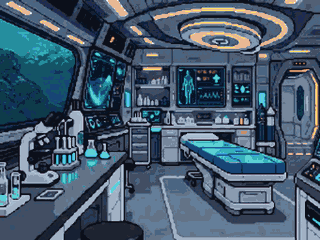
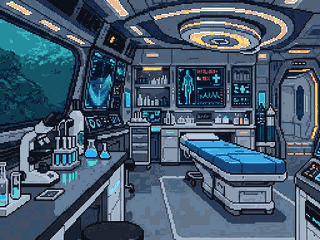
Walkways and medbay back to the colour-matched pictures (the filter rebuild looked smudged); Retro despeckle and the A1 BRIDGE sign stay
Claude-Session: https://claude.ai/code/session_01QsU1qWh9Lm4CoQ2smq7FHb

diff --git a/tablet/js/art.js b/tablet/js/art.js
@@ -8,8 +8,7 @@ export const ART = {
   // bridge: the owner's 1448x1086 picture, cut to the art (1448x992) with real transparent holes; bridge.png is the 320x240 pixel frame
   bridge: { original: { src: 'retro/assets/bridge_original.png', smooth: true }, retro: { src: 'retro/assets/bridge.png', smooth: false } },
   // each room: the owner's original (smooth) and the 320x240 palette copy made by tools/snap_picture.py
-  // walkway, walkway2 and medbay were soft paintings: tools/even_palette.py rebuilds them as pixel art at Engineering's pixel size (PNG)
-  ...Object.fromEntries(['walkway', 'walkway2', 'quarters', 'science', 'launchbay', 'medbay', 'engineering'].map((n) => [n, { original: { src: `retro/assets/${n}_original.${['walkway', 'walkway2', 'medbay'].includes(n) ? 'png' : 'jpg'}`, smooth: true }, retro: { src: `retro/assets/${n}.png`, smooth: false } }])),
+  ...Object.fromEntries(['walkway', 'walkway2', 'quarters', 'science', 'launchbay', 'medbay', 'engineering'].map((n) => [n, { original: { src: `retro/assets/${n}_original.jpg`, smooth: true }, retro: { src: `retro/assets/${n}.png`, smooth: false } }])),
 };
 
 export const getQuality = () => { try { return localStorage.getItem(KEY) === 'retro' ? 'retro' : 'original'; } catch (e) { return 'original'; } };

diff --git a/sw.js b/sw.js
@@ -2,7 +2,7 @@
    falls back to the saved copy when offline or slow. Covers the iPad game (tablet/) and the
    iPhone PED (ped/). Only same-origin GET requests are handled: GitHub sync calls go straight to
    the network. Run `python3 tools/update_sw.py` after adding or renaming files. */
-const VERSION = 'f1dbbe06bf';
+const VERSION = 'ea79a6aa4e';
 const CACHE = 'aquanova-' + VERSION;
 const ASSETS = [
  "tablet/",
@@ -275,15 +275,15 @@ const ASSETS = [
  "tablet/retro/assets/launchbay.png",
  "tablet/retro/assets/launchbay_original.jpg",
  "tablet/retro/assets/medbay.png",
- "tablet/retro/assets/medbay_original.png",
+ "tablet/retro/assets/medbay_original.jpg",
  "tablet/retro/assets/quarters.png",
  "tablet/retro/assets/quarters_original.jpg",
  "tablet/retro/assets/science.png",
  "tablet/retro/assets/science_original.jpg",
  "tablet/retro/assets/walkway.png",
  "tablet/retro/assets/walkway2.png",
- "tablet/retro/assets/walkway2_original.png",
- "tablet/retro/assets/walkway_original.png",
+ "tablet/retro/assets/walkway2_original.jpg",
+ "tablet/retro/assets/walkway_original.jpg",
  "tablet/retro/bridge.css",
  "tablet/retro/bridge.js",
  "tablet/retro/demo.html",

diff --git a/tools/even_palette.py b/tools/even_palette.py
@@ -16,7 +16,7 @@ ROOMS = ['bridge', 'walkway', 'walkway2', 'quarters', 'science', 'launchbay', 'm
 STRENGTH = 0.85   # 1 = match Engineering exactly; a little less keeps a trace of each room's own mood
 # Rooms whose source is soft and noisy (painted, not pixel art) are rebuilt as pixel art at Engineering's pixel size (2026-11-27):
 # denoise, shrink to the native grid, a limited palette, stray pixels removed, then blown back up in hard pixels. Saved as PNG.
-REPIXEL = ['walkway', 'walkway2', 'medbay']
+REPIXEL = []   # (tried 2026-11-27: the owner found it smudged; reverted)
 NATIVE = (341, 256)   # Engineering's art pixel: 1024 / 3 across
 PIX_COLOURS = 96
 

diff --git a/docs/HANDOFF.md b/docs/HANDOFF.md
@@ -1,6 +1,6 @@
 # Handoff (read this first when a session starts; update it before parking)
 
-Last updated: 2026-11-26. Branch to work on: `tablet`. Repo: NickWest27/AquaNova (GitHub Pages path `/AquaNova/`). Last change: walkway A1, walkway AN-1 and medbay rebuilt as pixel art at Engineering's pixel size (PNG, `tools/even_palette.py` REPIXEL), stray speckles removed from all Retro copies, BRIDGE sign on A1 drawn by the game; before that rooms open with the story and crew join the communicator when their room is visited (`rooms.js`, see `docs/COMMS_AND_PROGRESSION.md`); ARIA's bridge introduction; before that crew renamed (Lt. Andre Washington for security, Chief Engineer Ryan Doyle; see `docs/STORY_BIBLE.md`); the Captain's lines in the communicator are conversational (`SAY` in `stations/crew.js`); Call another station; Take me to my quarters removed; before that communicator menu tidied and First Contact completes on ARIA's introduction (see `docs/HELM_AND_ORDERS.md`); before that portraits and dialogue screens for Marcus, ARIA and Dr. Patel (`tools/crew_art.py`, sources in `art_src/crew/`; text box side per picture: `SCENE_BOX` in art.js); before that room pictures evened out to the Engineering picture's brightness and colour (`tools/even_palette.py`; the untouched originals are in `art_src/rooms/`, outside the served folders: a new room picture goes there first, then run the script, which also remakes the Retro copies); bigger crew tap areas on the bridge; before that the owner's testing list (below, all 18 items); before that the quarters wall screen cycles NAV, synthetic vision, sonar, WSKRs and ship status (`quartersScreen.js`, tap = next page, 10 s each; test `tools/quarters_screen_test.py`); pushing the trials for records with a risk of light damage (`trials.js`); story bible brought up to date; before that Sea Trials became the commissioning trip to the Trials AO (welcome letter in the logbook, commissioning orders by mail, Welcome to the AO mail; nav, eng and super cruise commissioned in steps; see the tutorial table in `docs/COMMS_AND_PROGRESSION.md`); before that the owner's welcome letter in the logbook; before that general alarm (ARIA order + engineering button; red lighting and frames; faster fire/flood response if sounded first; see `docs/ENGINEERING.md`); before that the Engineering room shows the ship's state (core glow amber/red, live console screens, red alarm for fire/flooding; see `docs/ENGINEERING.md`); before that the engineering computer; before that the 90s dialogue screen for Nicole; before that Nicole's portrait; before that walkway AN-1 and Engineering on the owner's pictures (every room is now 4:3); before that site survey (`survey.js`, Survey site on SONAR, Seabed survey missions) and the XO tends Remora before getting under way; before that Remora's tether parts past its length, the Tern fetches her (`tools/tether_test.py`); before that PED, communicator and corner buttons in the 4:3 box; before that Launch Bay as instruments, WSKRs have their own launch bays, standard target readout (`readout.js`), Full sweep 36 s; before that station pages are a 4:3 page (1024 x 768) scaled like the stage; before that pages fit the screen (`tools/fit_test.py`) and Sensors has SONAR and WSKRs only; before that contact tracking (detection chance, names belong to tracks, probable matches, signatures on file: `docs/CONTACT_TRACKING.md`); before that identified ships saved; before that one zoom direction everywhere ("+" zooms in) and round map zoom buttons; before that the bridge original picture with real transparent holes; before that the medbay on the owner's picture (after bridge, walkway A1, quarters, science lab, launch bay).
+Last updated: 2026-11-26. Branch to work on: `tablet`. Repo: NickWest27/AquaNova (GitHub Pages path `/AquaNova/`). Last change: walkway A1, walkway AN-1 and medbay back to the colour-matched pictures (a pixel-art rebuild by filter looked smudged; they need redrawing to be as crisp as the launch bay); stray speckles removed from the Retro copies; BRIDGE sign on A1 drawn by the game; before that rooms open with the story and crew join the communicator when their room is visited (`rooms.js`, see `docs/COMMS_AND_PROGRESSION.md`); ARIA's bridge introduction; before that crew renamed (Lt. Andre Washington for security, Chief Engineer Ryan Doyle; see `docs/STORY_BIBLE.md`); the Captain's lines in the communicator are conversational (`SAY` in `stations/crew.js`); Call another station; Take me to my quarters removed; before that communicator menu tidied and First Contact completes on ARIA's introduction (see `docs/HELM_AND_ORDERS.md`); before that portraits and dialogue screens for Marcus, ARIA and Dr. Patel (`tools/crew_art.py`, sources in `art_src/crew/`; text box side per picture: `SCENE_BOX` in art.js); before that room pictures evened out to the Engineering picture's brightness and colour (`tools/even_palette.py`; the untouched originals are in `art_src/rooms/`, outside the served folders: a new room picture goes there first, then run the script, which also remakes the Retro copies); bigger crew tap areas on the bridge; before that the owner's testing list (below, all 18 items); before that the quarters wall screen cycles NAV, synthetic vision, sonar, WSKRs and ship status (`quartersScreen.js`, tap = next page, 10 s each; test `tools/quarters_screen_test.py`); pushing the trials for records with a risk of light damage (`trials.js`); story bible brought up to date; before that Sea Trials became the commissioning trip to the Trials AO (welcome letter in the logbook, commissioning orders by mail, Welcome to the AO mail; nav, eng and super cruise commissioned in steps; see the tutorial table in `docs/COMMS_AND_PROGRESSION.md`); before that the owner's welcome letter in the logbook; before that general alarm (ARIA order + engineering button; red lighting and frames; faster fire/flood response if sounded first; see `docs/ENGINEERING.md`); before that the Engineering room shows the ship's state (core glow amber/red, live console screens, red alarm for fire/flooding; see `docs/ENGINEERING.md`); before that the engineering computer; before that the 90s dialogue screen for Nicole; before that Nicole's portrait; before that walkway AN-1 and Engineering on the owner's pictures (every room is now 4:3); before that site survey (`survey.js`, Survey site on SONAR, Seabed survey missions) and the XO tends Remora before getting under way; before that Remora's tether parts past its length, the Tern fetches her (`tools/tether_test.py`); before that PED, communicator and corner buttons in the 4:3 box; before that Launch Bay as instruments, WSKRs have their own launch bays, standard target readout (`readout.js`), Full sweep 36 s; before that station pages are a 4:3 page (1024 x 768) scaled like the stage; before that pages fit the screen (`tools/fit_test.py`) and Sensors has SONAR and WSKRs only; before that contact tracking (detection chance, names belong to tracks, probable matches, signatures on file: `docs/CONTACT_TRACKING.md`); before that identified ships saved; before that one zoom direction everywhere ("+" zooms in) and round map zoom buttons; before that the bridge original picture with real transparent holes; before that the medbay on the owner's picture (after bridge, walkway A1, quarters, science lab, launch bay).
 
 ## Owner's testing list (2026-11-26): all done 2026-11-27, waiting for the owner to test on the iPad
 Rooms and signs

diff --git a/docs/RETRO_SKIN_PLAN.md b/docs/RETRO_SKIN_PLAN.md
@@ -32,6 +32,6 @@ Test for later decisions: does a choice make assets **more consistent** and **ch
 
 ## Picture consistency (2026-11-27)
 - Colour and brightness: every room is matched to Engineering (`tools/even_palette.py`, CIE Lab: lightness histogram, colour mean and spread, 85% strength). Originals in `art_src/rooms/`.
-- Pixel size: Engineering, quarters, science and the launch bay are pixel art with an art pixel of about 5.6 stage px (1024 / 3 across). Walkway A1, walkway AN-1 and the medbay were soft paintings with compression noise; they are rebuilt at the same grid (denoise, 341x256, 96 colours shared with Engineering, stray pixels removed, hard pixels) and saved as PNG.
+- Pixel size: Engineering, quarters, science and the launch bay are crisp pixel art (an art pixel about 5.6 stage px). Walkway A1, walkway AN-1 and the medbay are soft, noisy paintings. Rebuilding them as pixel art by filter (REPIXEL in the script) and sharpening were both tried on 2026-11-27: the owner found the rebuild smudged, and sharpening only adds noise. They stay as they are until they are redrawn.
 - Retro copies: 320x240, the 64-colour palette, no dithering, then stray single pixels removed (noisy sources used to turn into speckle).
 - For new art: ask for pixel art at 1024x768 with a 3 px pixel grid (about 341x256 art pixels), flat cel shading, cool blue-grey steel with amber and cyan accents, Engineering as the reference. Then put the file in `art_src/rooms/` and run the script.
